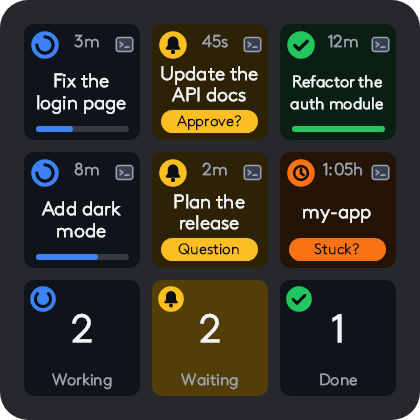
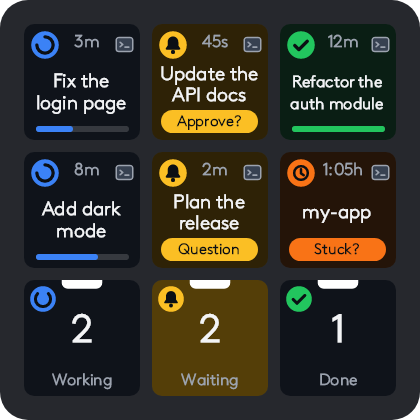
Highlight unread scheduled runs and update roadmap

Changed region(s): [[0.4333, 0.65, 0.5571, 0.7119], [0.1238, 0.65, 0.2476, 0.7119], [0.7429, 0.65, 0.8667, 0.7119]]

diff --git a/tools/KeyPreview/KeypadMockups.cs b/tools/KeyPreview/KeypadMockups.cs
@@ -40,7 +40,8 @@ internal static class KeypadMockups
             Tile(TileIcon.Working, 2, en.Group(SessionGroup.Working)),
             Tile(TileIcon.Waiting, 2, en.Group(SessionGroup.Waiting)),
             Tile(TileIcon.Done, 1, en.Group(SessionGroup.Done)),
-        ]);
+        ],
+        folderKeys: [6, 7, 8]);
 
         var request = new PendingApproval("r1", "s1", "Bash", "rm -rf build/ && npm run build", ApprovalRisk.High, true, 0, 0);
         Save(output, "keypad-approval.png",
@@ -60,7 +61,7 @@ internal static class KeypadMockups
         return 0;
     }
 
-    private static void Save(string output, string name, BitmapImage?[] keys)
+    private static void Save(string output, string name, BitmapImage?[] keys, int[]? folderKeys = null)
     {
         var size = (2 * Margin) + (3 * Key) + (2 * Gap);
         using var surface = SKSurface.Create(new SKImageInfo(size, size, SKColorType.Rgba8888, SKAlphaType.Premul));
@@ -72,6 +73,7 @@ internal static class KeypadMockups
 
         using var clip = new SKPaint { IsAntialias = true, FilterQuality = SKFilterQuality.High };
         using var blank = new SKPaint { Color = new SKColor(0x0D, 0x11, 0x17), IsAntialias = true };
+        using var tab = new SKPaint { Color = SKColors.White, IsAntialias = true };
         for (var i = 0; i < keys.Length; i++)
         {
             var x = Margin + ((i % 3) * (Key + Gap));
@@ -87,6 +89,15 @@ internal static class KeypadMockups
             else
             {
                 canvas.DrawRect(rect, blank);
+            }
+
+            if (folderKeys?.Contains(i) == true)
+            {
+                // Options+ draws this white tab over folder keys; the plugin's images don't contain it (docs/LESSONS.md #45).
+                var tabWidth = Key * 0.35f;
+                var tabHeight = Key * 0.075f;
+                var left = x + ((Key - tabWidth) / 2);
+                canvas.DrawRoundRect(new SKRect(left, y - tabHeight, left + tabWidth, y + tabHeight), 6, 6, tab);
             }
 
             canvas.Restore();

diff --git a/src/SessionPulsePlugin/Rendering/KeyRenderer.cs b/src/SessionPulsePlugin/Rendering/KeyRenderer.cs
@@ -276,9 +276,9 @@ internal sealed class KeyRenderer
         var accent = icon switch
         {
             TileIcon.Working => Icons.Colors.Blue,
-            TileIcon.Waiting or TileIcon.Next or TileIcon.Approvals => Icons.Colors.Amber,
+            TileIcon.Waiting or TileIcon.Next or TileIcon.Approvals or TileIcon.Calendar => Icons.Colors.Amber,
             TileIcon.Done or TileIcon.Allow or TileIcon.AllowAlways => Icons.Colors.Green,
-            TileIcon.Calendar or TileIcon.AllowSession => Icons.Colors.Blue,
+            TileIcon.AllowSession => Icons.Colors.Blue,
             TileIcon.Deny => Icons.Colors.Red,
             TileIcon.AskInClaude => Icons.Colors.Gray,
             _ => active ? Icons.Colors.Red : Icons.Colors.Gray,
@@ -304,7 +304,7 @@ internal sealed class KeyRenderer
 
         var background = icon switch
         {
-            TileIcon.Waiting or TileIcon.Approvals => Style.For(KeyState.Waiting, frame).Background,
+            TileIcon.Waiting or TileIcon.Approvals or TileIcon.Calendar => Style.For(KeyState.Waiting, frame).Background,
             TileIcon.Microphone when active => frame % 2 == 0 ? new BitmapColor(58, 14, 14) : new BitmapColor(92, 20, 20),
             _ => BaseBackground,
         };

diff --git a/src/SessionPulsePlugin/Rendering/Icons.cs b/src/SessionPulsePlugin/Rendering/Icons.cs
@@ -104,7 +104,7 @@ internal static class Icons
         + $"<path d=\"M3 12.2h18\" stroke=\"{Colors.DarkGray}\" stroke-width=\"1.4\"/>";
 
     /// <summary>Unread marker: blue dot with a dark ring so it stands out on any background.</summary>
-    public static string UnreadDot => $"<circle cx=\"12\" cy=\"12\" r=\"10\" fill=\"{Colors.Glyph}\"/><circle cx=\"12\" cy=\"12\" r=\"7.5\" fill=\"{Colors.Blue}\"/>";
+    public static string UnreadDot => $"<circle cx=\"12\" cy=\"12\" r=\"10\" fill=\"{Colors.Glyph}\"/><circle cx=\"12\" cy=\"12\" r=\"7.5\" fill=\"{Colors.Amber}\"/>";
 
     /// <summary>A rounded bar, used for chips and the progress track (stretched to any aspect ratio).</summary>
     public static BitmapImage Pill(string color, double opacity, int width, int height)

diff --git a/src/SessionPulsePlugin/Folders/SessionPulseFolder.cs b/src/SessionPulsePlugin/Folders/SessionPulseFolder.cs
@@ -10,7 +10,7 @@ internal sealed record FolderItem(string Parameter, KeyModel? Model, string? Act
 /// <summary>What the folder's own tile (the key that opens it) shows.</summary>
 internal sealed record TileState(TileIcon Icon, int? Count, string Label, bool Active)
 {
-    public bool IsAnimated => this.Active && this.Icon is TileIcon.Working or TileIcon.Waiting or TileIcon.Microphone or TileIcon.Approvals;
+    public bool IsAnimated => this.Active && this.Icon is TileIcon.Working or TileIcon.Waiting or TileIcon.Microphone or TileIcon.Approvals or TileIcon.Calendar;
 }
 
 /// <summary>What changed during a tick, to be reported to the service outside the plugin lock.</summary>

diff --git a/README.md b/README.md
@@ -19,6 +19,16 @@ are working, which are waiting for you and which are done: in the Claude
 Desktop app, in a terminal on Windows and in WSL. Pressing a key opens exactly
 that session.
 
+**One keypad for all your Claude Code sessions, wherever they run.** Use them
+side by side and see them together on the same keys:
+
+* **Claude Code in Claude Desktop** (the Code tab)
+* **Claude CLI on Windows**
+* **Claude CLI in WSL**
+
+You don't have to think about where a session lives: a key press takes you to
+it, in Claude Desktop or in its terminal.
+
 > **Status: early development.** All planned features are implemented. Testing
 > on a real device has started but is not finished, so expect rough edges. See
 > [the milestones](#roadmap) and the [device test plan](docs/device-test-plan.md).
@@ -172,7 +182,7 @@ Each session key shows a round state badge at the top left, the main signal:
 | red exclamation mark | stopped by an error or a usage limit |
 
 Next to it the running time, at the top right the source (briefcase = Cowork,
-terminal = Claude Code; a blue dot instead marks an unread scheduled run), then
+terminal = Claude Code; a yellow dot instead marks an unread scheduled run), then
 the session title and, if the session has a task list, a progress bar. The
 title is the one Claude shows: from Claude Desktop, or for sessions in a
 terminal the title Claude Code generated (or the one you set with `/rename`);
@@ -279,9 +289,9 @@ test that parses those golden files, so hook and plugin can't drift apart.
 |---|---|---|
 | M0 | Repository, docs, CI | done |
 | M1 | Hook and status file with tests | done |
-| M2 | Keypad plugin with session keys | built, device test in progress |
-| M3 | Counter folders (working / waiting / done) | built, device test pending |
-| M4 | Scheduled tasks | built, device test pending |
+| M2 | Keypad plugin with session keys | done |
+| M3 | Counter folders (working / waiting / done) | done |
+| M4 | Scheduled tasks | done |
 | M5 | Dictation (optional, Windows only) | built, device test pending |
 | M6 | Release pipeline | done ([docs/releasing.md](docs/releasing.md)) |
 

diff --git a/docs/device-test-plan.md b/docs/device-test-plan.md
@@ -84,8 +84,8 @@ Tick the boxes, and write anything unexpected into **Findings** at the end
 
 ## 5. Scheduled tasks
 
-- [ ] Assign "Scheduled tasks". After a scheduled run: count 1, blue dot on the
-      run's key, unread runs first.
+- [ ] Assign "Scheduled tasks". After a scheduled run: count 1, the folder key
+      is yellow and pulses, yellow dot on the run's key, unread runs first.
 - [ ] Title is the run's title (or an earlier run's title while the new run is
       still unnamed), never `<scheduled-task ...`.
 - [ ] Press the run: it opens, **scrolls to the top**, the dot disappears.

diff --git a/docs/LESSONS.md b/docs/LESSONS.md
@@ -173,7 +173,7 @@ Please add to this file when you find something new.
     (`PluginDynamicCommand`) don't get it, even with the same image. The Logi
     Actions SDK docs don't mention it
     (`csharp/plugin-features/implementing-dynamic-folders.md`). Seen in the
-    Options+ device view; not yet checked on the keypad's LCD. Keep the top
+    Options+ device view; on the keypad's LCD it is about half as high. Keep the top
     center of folder images empty; our counter tiles put the badge top left.
 
 ## PowerShell / UI Automation

diff --git a/CHANGELOG.md b/CHANGELOG.md
@@ -68,6 +68,9 @@ All notable changes to this project are documented here. The format follows
   larger number, so the white tab Options+ draws on folder keys no longer
   covers the badge.
 
+- Unread scheduled runs ask for attention: the folder key is yellow and pulses
+  like a waiting session, and the marker on the run's key is yellow, not blue.
+
 ### Fixed
 
 - A session whose main agent has finished stays "working" while background
